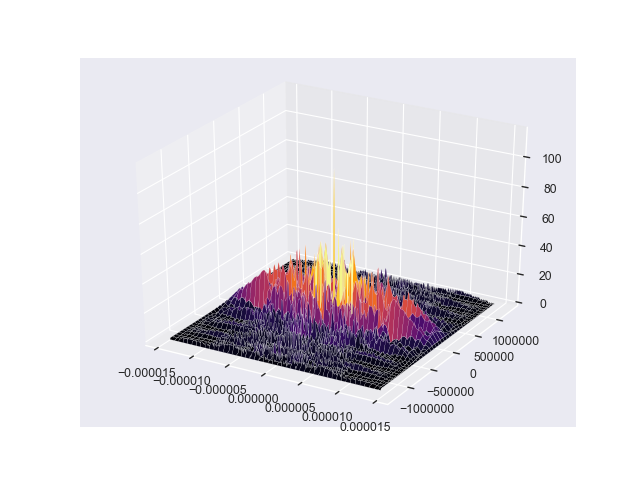
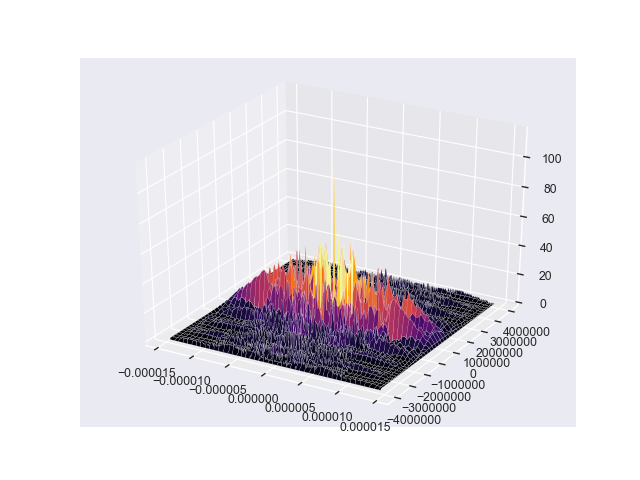
Fix doppler axis

Changed region(s): [[0.625, 0.6562, 0.875, 0.9062]]

diff --git a/ambiguity_functions.py b/ambiguity_functions.py
@@ -5,7 +5,7 @@ import matplotlib.pyplot as plt
 import seaborn as sns
 
 
-def ambgfun(x, fs):
+def ambgfun(x, fs, prf):
     """Calculate the ambiguity function of a radar waveform.
 
     This function calculates the monostatic ambiguity function of the radar
@@ -14,13 +14,12 @@ def ambgfun(x, fs):
     ts = 1 / fs   # Sampling interval (seconds)
 
     nx = np.size(x)
-    t = np.arange(0, nx) * ts
     delay = np.arange(1-nx, nx) * ts
     n = np.size(delay)
     nfft = int(2**(np.ceil(np.log2(n))))
     m = nfft
     dshifts = np.arange(-m/2, m/2, dtype=int)
-    doppler = dshifts * prf
+    doppler = dshifts * (fs / nfft)
 
     X0 = np.fft.fft(x, n=nfft)
     X = np.zeros((m, nfft), dtype=complex)
@@ -78,7 +77,7 @@ prf = 10000
 t = np.arange(0, tx, step=ts)
 
 x = np.ones(np.shape(t))
-ambig, delay, doppler = ambgfun(x, fs)
+ambig, delay, doppler = ambgfun(x, fs, prf)
 
 plt.figure()
 plt.pcolormesh(delay / 1e-6, doppler / 1e3, np.abs(ambig))
@@ -114,7 +113,7 @@ t = np.arange(0, tx, step=ts)
 chirpyness = bw / tx
 theta = - np.pi * bw * t + np.pi * chirpyness * t**2
 x = np.exp(1j * theta)
-ambig, delay, doppler = ambgfun(x, fs)
+ambig, delay, doppler = ambgfun(x, fs, prf)
 
 plt.figure()
 plt.pcolormesh(delay / 1e-6, doppler / 1e3, np.abs(ambig))
@@ -145,7 +144,7 @@ x = np.zeros((117,))
 for i in range(np.size(x)):
     x[i] = code[i // 9]
 fs = 8e6
-ambig, delay, doppler = ambgfun(x, fs)
+ambig, delay, doppler = ambgfun(x, fs, prf)
 
 plt.figure()
 plt.plot(x)

diff --git a/matlab_ambgfun.m b/matlab_ambgfun.m
@@ -13,9 +13,9 @@ fs = waveform.SampleRate;
 [afmag,delay,doppler] = ambgfun(x,waveform.SampleRate,prf);
 
 figure()
-imagesc(delay,doppler,afmag)
-xlabel('Delay (seconds)')
-ylabel('Doppler Shift (hertz)')
+imagesc(delay / 1e-6,doppler / 1e3,afmag)
+xlabel('Delay (\mus)')
+ylabel('Doppler Shift (kHz)')
 
 %% LFM Waveform
 fs = 8e6;
@@ -31,8 +31,8 @@ fs = waveform.SampleRate;
 [afmag,delay,doppler] = ambgfun(x,waveform.SampleRate,prf);
 
 figure()
-imagesc(delay,doppler,afmag)
-xlabel('Delay (seconds)')
-ylabel('Doppler Shift (hertz)')
+imagesc(delay / 1e-6,doppler / 1e3,afmag)
+xlabel('Delay (\mus)')
+ylabel('Doppler Shift (kHz)')
 
 %% Barker Waveform
